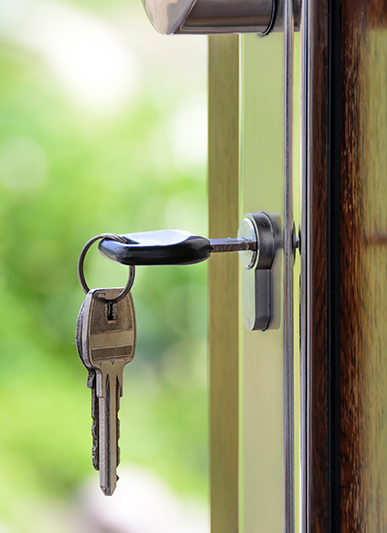
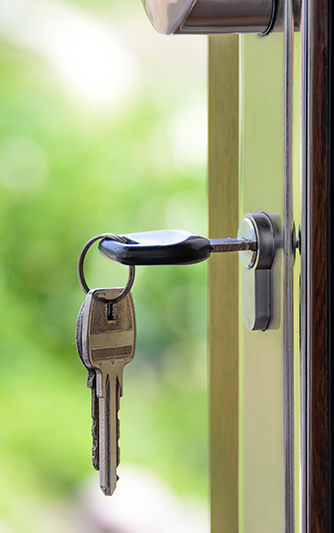
Update

diff --git a/art-direction.html b/art-direction.html
@@ -7,6 +7,12 @@
     <title>Art Direction | Simple Image Performance</title>
 </head>
 <body>
+
+    <picture>
+        <source media="(max-width: 799px)" srcset="images/art-dir-small.jpg">
+        <source media="(min-width: 800px)" srcset="images/art-dir-large.jpg">
+        <img src="images/art-dir-large.jpg" alt="Image of Key Opening Door">
+    </picture>      
     
 </body>
 </html>

diff --git a/README.md b/README.md
@@ -1,1 +1,4 @@
-# improve-image-performance
+# Simple Ways to Improve Website Image Performance
+
+- Resolution Switching
+- Art Direction
